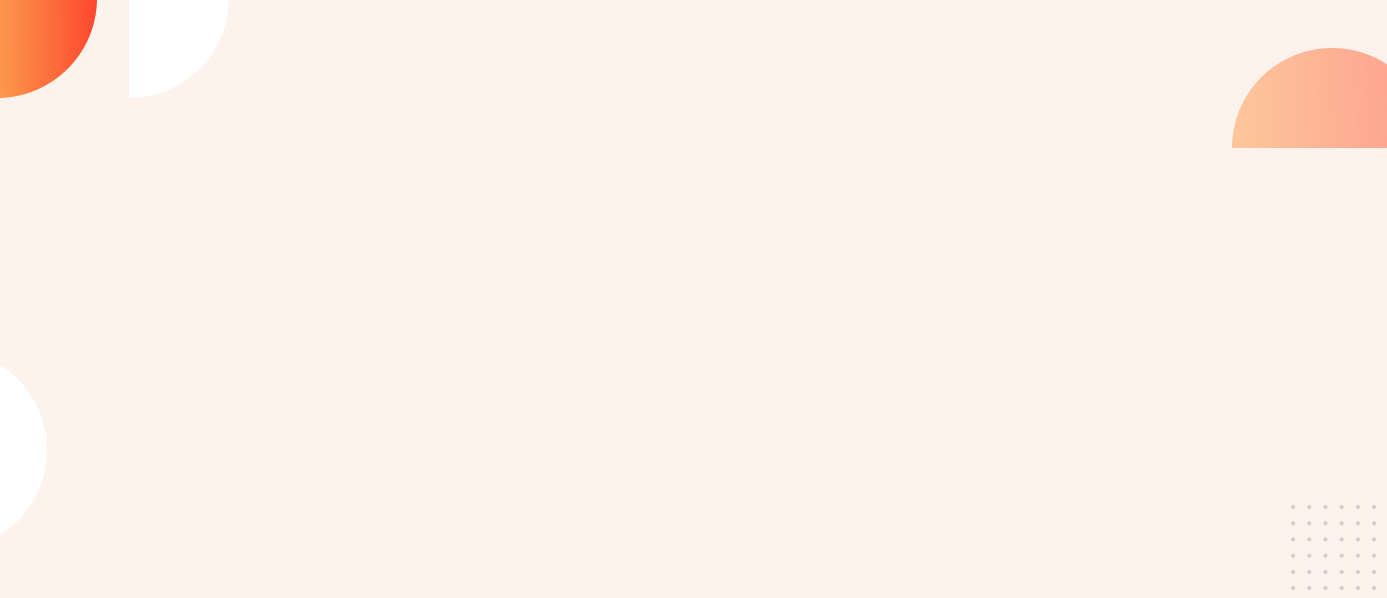
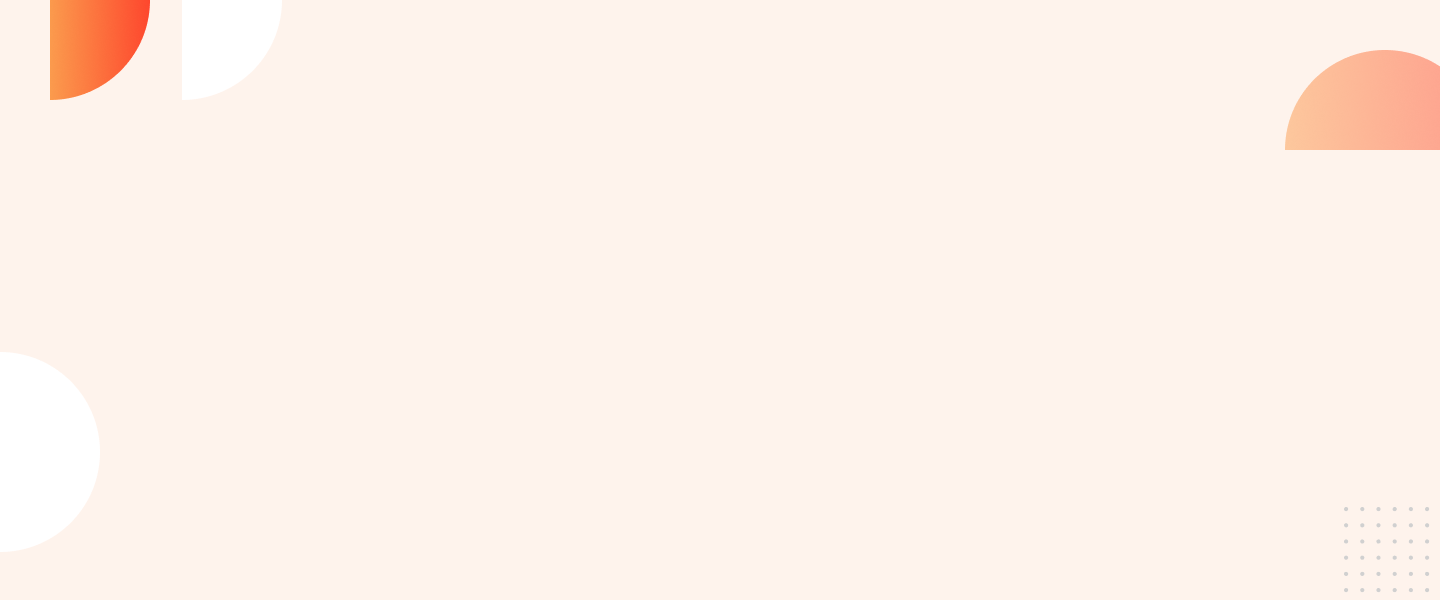
background modified

diff --git a/index.html b/index.html
@@ -9,10 +9,10 @@
     <link rel="shortcut icon" type="image/png" href="images/favicon.png">
     <link rel="preconnect" href="https://fonts.googleapis.com">
     <link rel="preconnect" href="https://fonts.gstatic.com" crossorigin>
-    <link href="https://fonts.googleapis.com/css2?family=Bangers&display=swap" rel="stylesheet">
+    <link href="https://fonts.googleapis.com/css2?family=Poppins&family=Ultra&display=swap" rel="stylesheet">
     <link rel="preconnect" href="https://fonts.googleapis.com">
     <link rel="preconnect" href="https://fonts.gstatic.com" crossorigin>
-    <link href="https://fonts.googleapis.com/css2?family=Poppins&display=swap" rel="stylesheet">
+    <link href="https://fonts.googleapis.com/css2?family=Poppins&family=Ultra&display=swap" rel="stylesheet">
 
     <link rel="stylesheet" href="style.css">
 </head>
@@ -49,11 +49,17 @@
         </div>
 
     </section>
-    <div class="recipe">
-        <h2>My Recipes</h2>
-        <p>I have some amazing recipes full of nutritions. These recipes conclude the healthiest vegetables. I have
-            recipes with vegan meat also! You will find the rarest food items in our menu.</p>
-    </div>
+    <section class="recipe">
+        <div class="recipe-short-note">
+            <h2>My Recipes</h2>
+            <p>I have some amazing recipes full of nutritions. These recipes conclude the
+                healthiest vegetables. I have
+                recipes with vegan meat also! You will find the rarest food items in our menu.</p>
+        </div>
+
+
+    </section>
+
 </body>
 
 </html>

diff --git a/style.css b/style.css
@@ -2,7 +2,7 @@ title{
     display: none;
 }
 .top-title{
-    font-family: 'Bangers', cursive;
+    font-family: 'Ultra', serif;
     color: rgb(235, 95, 44);
     font-size: 80px;
     text-align: center;
@@ -58,11 +58,12 @@ border-radius: 20px;
 .about-me{
     background-image: url(images/background.png);
     background-repeat: no-repeat;
+    background-position: center;
 }
-.recipe{
+.recipe-short-note{
     margin: auto;
     width: 50%;
-    padding: 10px;
+    padding: 5px;
     text-align: justify;
 }
 h2{
